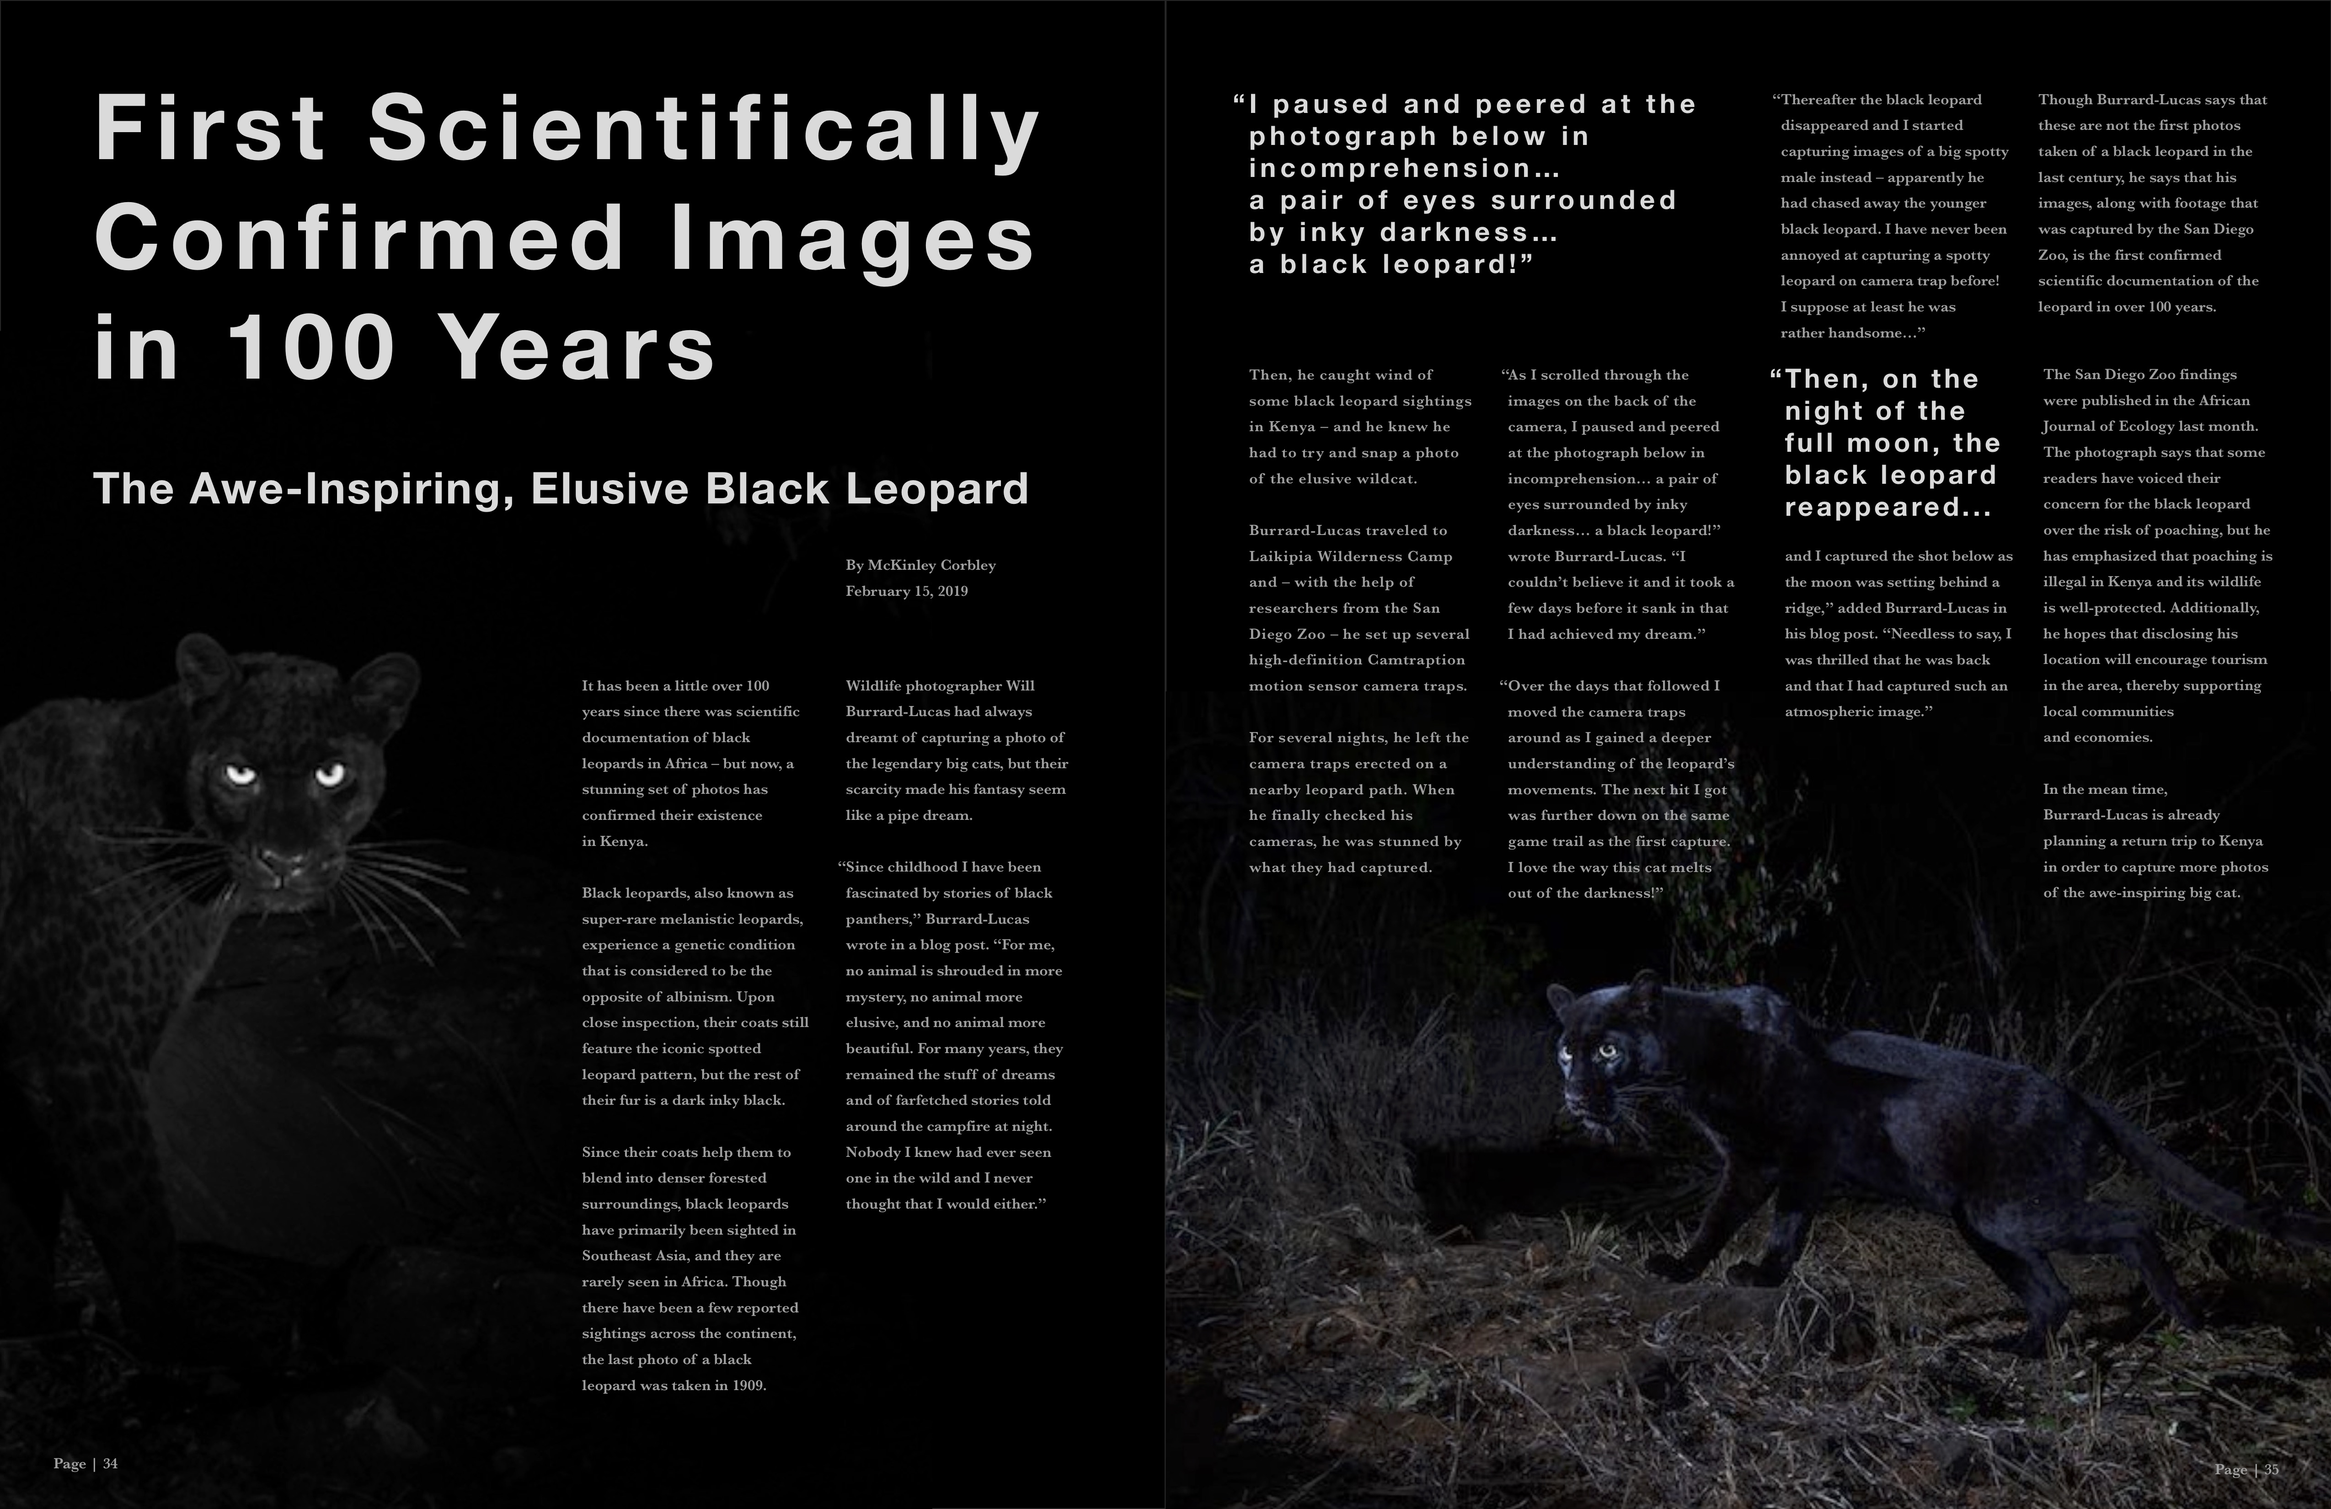
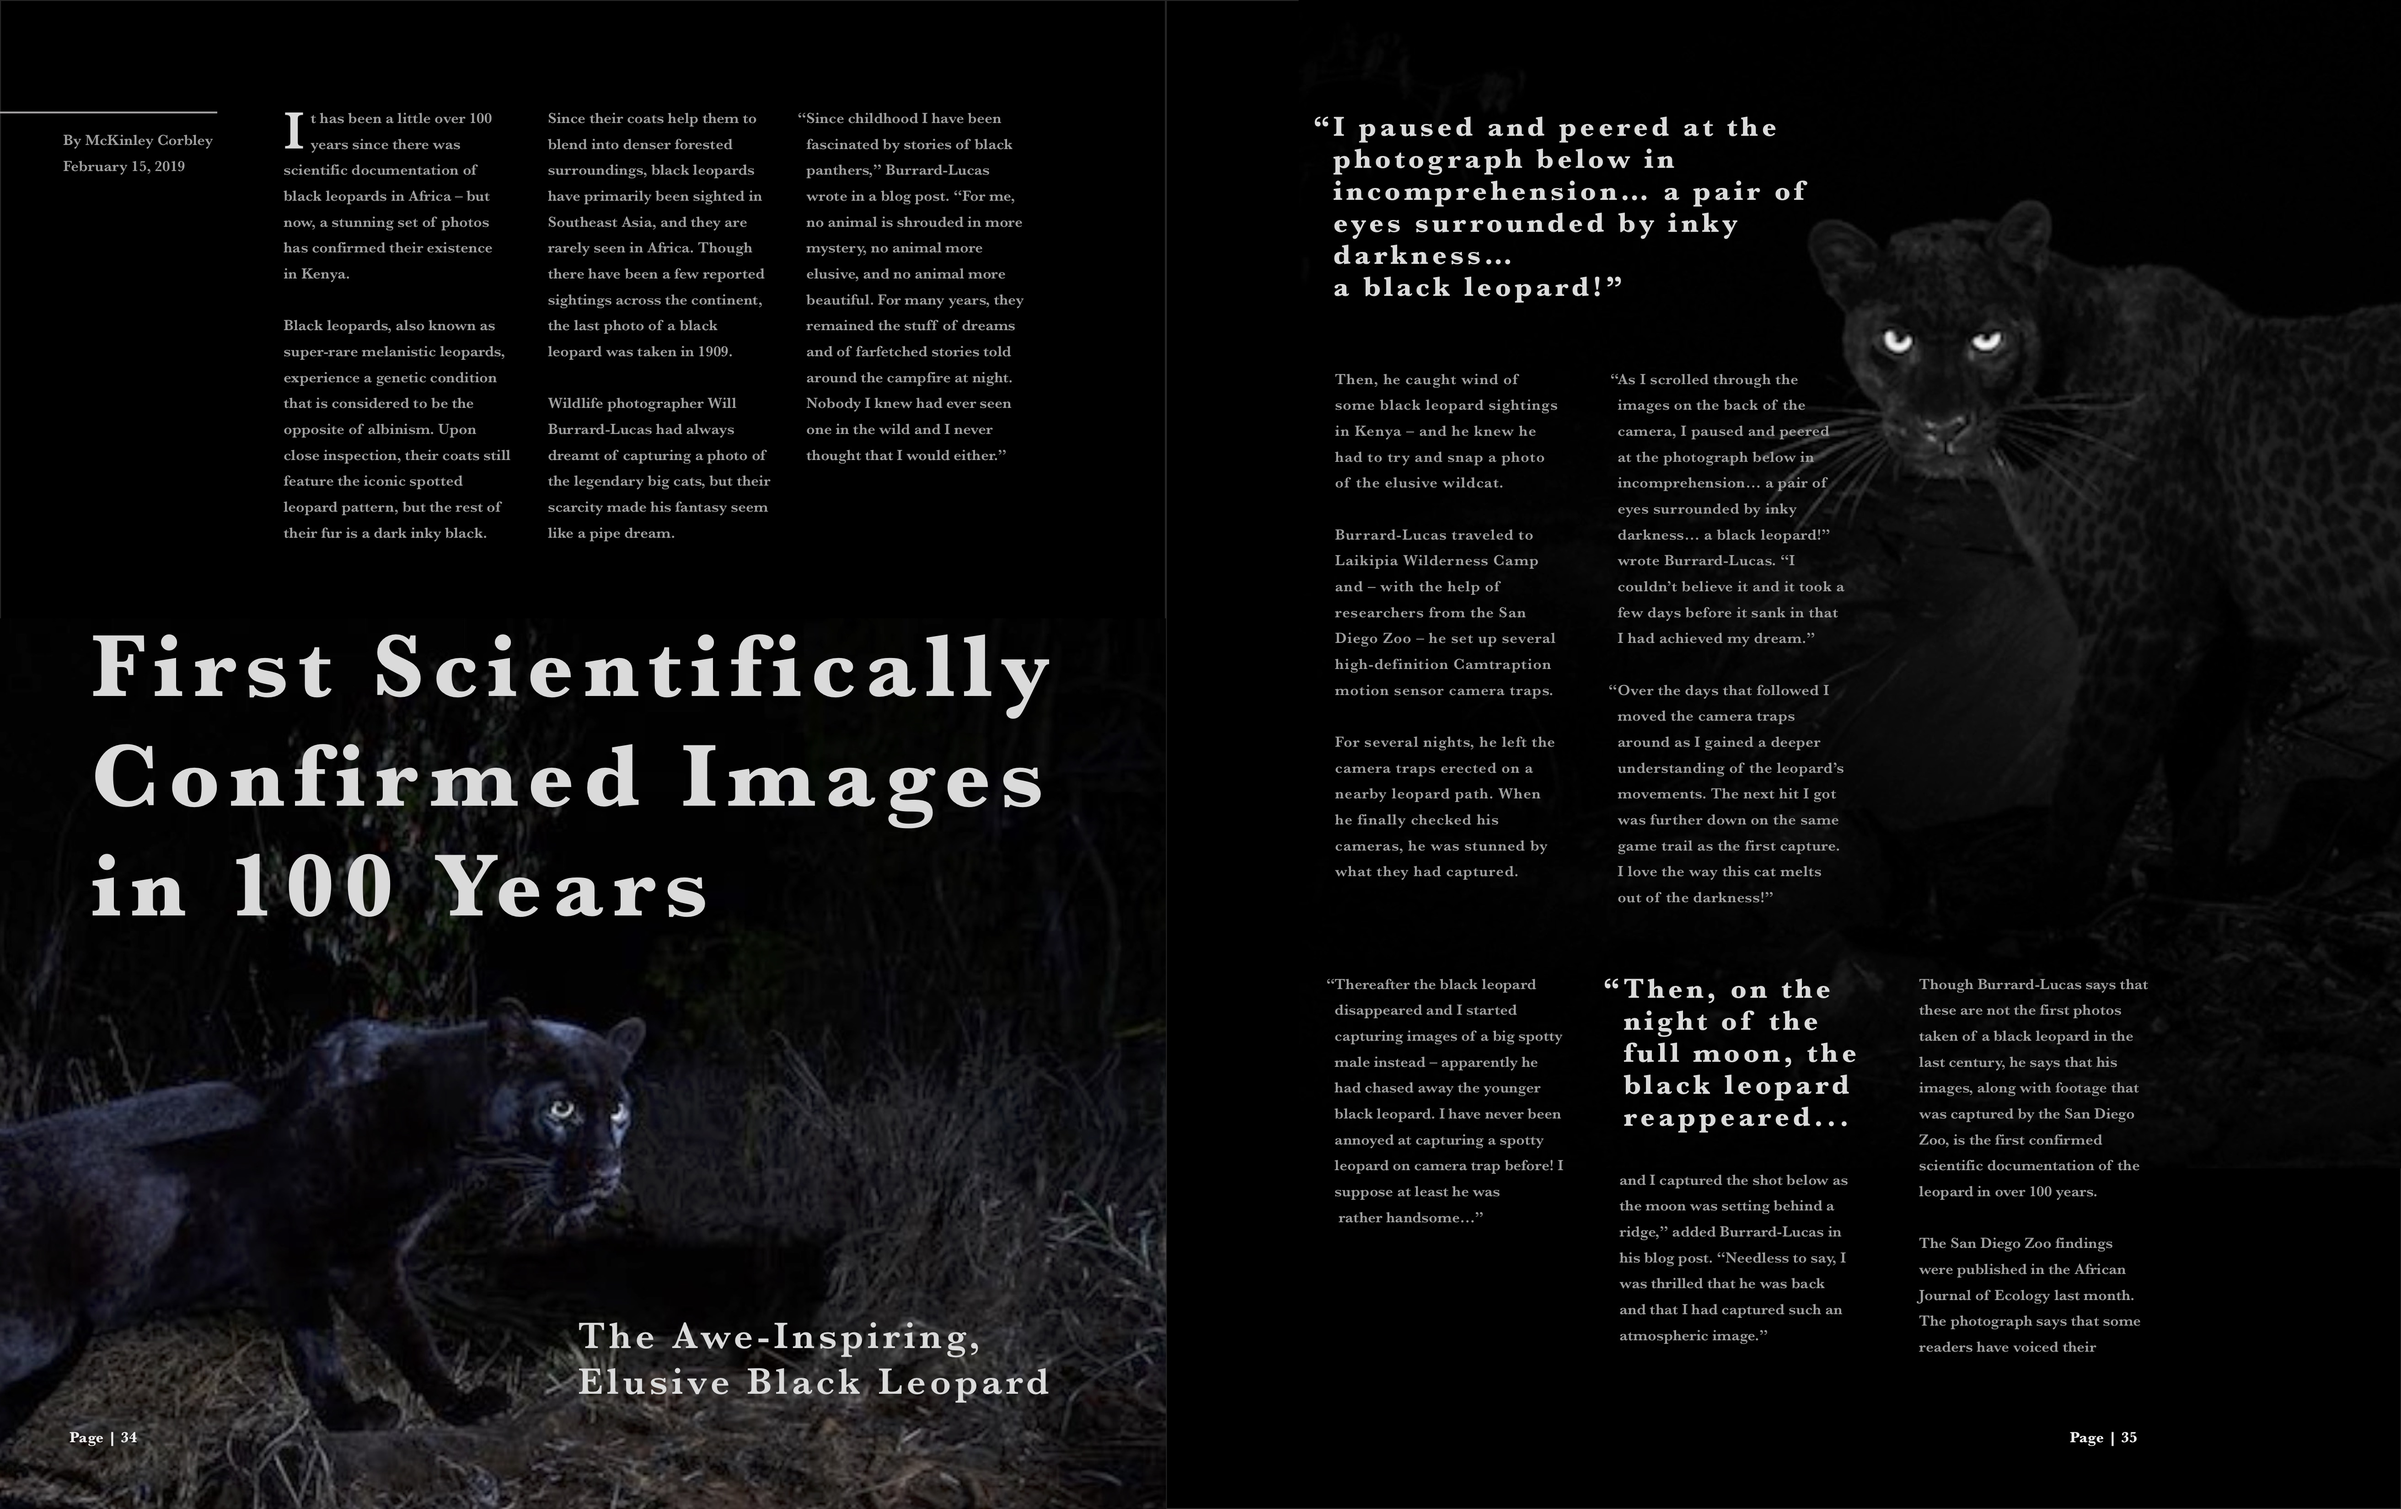
sketch and words update

diff --git a/portfolio_pages/packaging/thezoo.html b/portfolio_pages/packaging/thezoo.html
@@ -75,6 +75,16 @@ Copyright &copy;<script>document.write(new Date().getFullYear());</script> All r
         </div><!-- .row -->
         <div class="row">
             <div class="col-12">
+                <div class="featured-img" style="text-align: center; margin-bottom: 20px;">
+                  <div style="display: inline-block; text-align: left; width: 80%">
+                    <p style="font-weight: 100">Unbox your Party Animal!
+  The Zoo Winery is a fictitious brand that believes humans are not so different than animals when they let loose a little. The type of wine is paired with a specific animal so when the consumer finds their favorite wine they also get to meet their Party Animal excited for a fun night with others. The design inspiration for Party Animal wine came from zoo crates which carry animals to and from the parks. The wine is placed in a wooden box with the labels representing the shipping stamps. With The Zoo Winery, the consumer is asked to let loose and unbox their Party Animal to have a night of fun!</p>
+                  </div>
+                </div><!-- .content-area -->
+            </div><!-- .col-12 -->
+        </div><!-- .row -->
+        <div class="row">
+            <div class="col-12">
                 <div class="featured-img">
                     <figure>
                         <img src="images/thezoo/octo.jpg" alt="">
@@ -141,6 +151,33 @@ Copyright &copy;<script>document.write(new Date().getFullYear());</script> All r
                 <div class="featured-img">
                     <figure>
                         <img src="images/thezoo/pandaback.jpg" alt="">
+                    </figure>
+                </div><!-- .content-area -->
+            </div><!-- .col-12 -->
+        </div><!-- .row -->
+        <div class="row">
+            <div class="col-12">
+                <div class="featured-img">
+                    <figure>
+                        <img src="images/thezoo/octo-sketch.jpg" alt="">
+                    </figure>
+                </div><!-- .content-area -->
+            </div><!-- .col-12 -->
+        </div><!-- .row -->
+        <div class="row">
+            <div class="col-12">
+                <div class="featured-img">
+                    <figure>
+                        <img src="images/thezoo/crow-sketch.jpg" alt="">
+                    </figure>
+                </div><!-- .content-area -->
+            </div><!-- .col-12 -->
+        </div><!-- .row -->
+        <div class="row">
+            <div class="col-12">
+                <div class="featured-img">
+                    <figure>
+                        <img src="images/thezoo/panda-sketch.jpg" alt="">
                     </figure>
                 </div><!-- .content-area -->
             </div><!-- .col-12 -->

diff --git a/portfolio_pages/layouts/blackleopard.html b/portfolio_pages/layouts/blackleopard.html
@@ -75,9 +75,27 @@ Copyright &copy;<script>document.write(new Date().getFullYear());</script> All r
         </div><!-- .row -->
         <div class="row">
             <div class="col-12">
+                <div class="featured-img" style="text-align: center; margin-bottom: 20px;">
+                  <div style="display: inline-block; text-align: left; width: 80%">
+                    <p style="font-weight: 100">For this editorial design, I wanted to recreate the feeling the photographer felt when they saw the elusive black leopard. He describes how the leopard moved out of the black of night as though he was a part of the sky. I wanted to create a similar effect with the photos he caught by having the leopard emerging from the page. I placed the title on the bottom first page to help balance out the pages and give focus to the photos. This created a balance through the triangulation of the title and the pulled quotes.</p>
+                  </div>
+                </div><!-- .content-area -->
+            </div><!-- .col-12 -->
+        </div><!-- .row -->
+        <div class="row">
+            <div class="col-12">
                 <div class="featured-img">
                     <figure>
                         <img src="images/blackleopard.jpg" alt="">
+                    </figure>
+                </div><!-- .content-area -->
+            </div><!-- .col-12 -->
+        </div><!-- .row -->
+        <div class="row">
+            <div class="col-12">
+                <div class="featured-img">
+                    <figure>
+                        <img src="images/blackleopard-sketch.jpg" alt="">
                     </figure>
                 </div><!-- .content-area -->
             </div><!-- .col-12 -->

diff --git a/portfolio_pages/posters/aliceinwonderland.html b/portfolio_pages/posters/aliceinwonderland.html
@@ -75,9 +75,27 @@ Copyright &copy;<script>document.write(new Date().getFullYear());</script> All r
         </div><!-- .row -->
         <div class="row">
             <div class="col-12">
+                <div class="featured-img" style="text-align: center; margin-bottom: 20px;">
+                  <div style="display: inline-block; text-align: left; width: 80%">
+                    <p style="font-weight: 100">The design of this poster is based on an Alice in Wonderland quote. It is designed to be read from the bottom to the top to feel like the confusing world of Wonderland. As the quote says, it doesn’t matter which path you take and while you may read this bottom to top, it is easy to understand. The design is meant to lead the reader down the winding path as you read up the page.</p>
+                  </div>
+                </div><!-- .content-area -->
+            </div><!-- .col-12 -->
+        </div><!-- .row -->
+        <div class="row">
+            <div class="col-12">
                 <div class="featured-img">
                     <figure>
                         <img src="images/alice-in-wonderland.jpg" alt="">
+                    </figure>
+                </div><!-- .content-area -->
+            </div><!-- .col-12 -->
+        </div><!-- .row -->
+        <div class="row">
+            <div class="col-12">
+                <div class="featured-img">
+                    <figure>
+                        <img src="images/alice-sketch.jpg" alt="">
                     </figure>
                 </div><!-- .content-area -->
             </div><!-- .col-12 -->

diff --git a/portfolio_pages/posters/figureground.html b/portfolio_pages/posters/figureground.html
@@ -75,6 +75,15 @@ Copyright &copy;<script>document.write(new Date().getFullYear());</script> All r
         </div><!-- .row -->
         <div class="row">
             <div class="col-12">
+                <div class="featured-img" style="text-align: center; margin-bottom: 20px;">
+                  <div style="display: inline-block; text-align: left; width: 80%">
+                    <p style="font-weight: 100">For this poster, I was asked to take a design principle and deep dive into it. At the time, I was interested by high contrast and bold shapes seen throughout famous posters that use the figure-ground effect. After coming across Type the Sky by Lisa Rienermann, the idea hit me to type "Figure Ground" using figure-ground. I was able to create the effect using the Helvetica typeface. For the final test: is this poster white on black or black on white?</p>
+                  </div>
+                </div><!-- .content-area -->
+            </div><!-- .col-12 -->
+        </div><!-- .row -->
+        <div class="row">
+            <div class="col-12">
                 <div class="featured-img">
                     <figure>
                         <img src="images/figureground.jpg" alt="">
